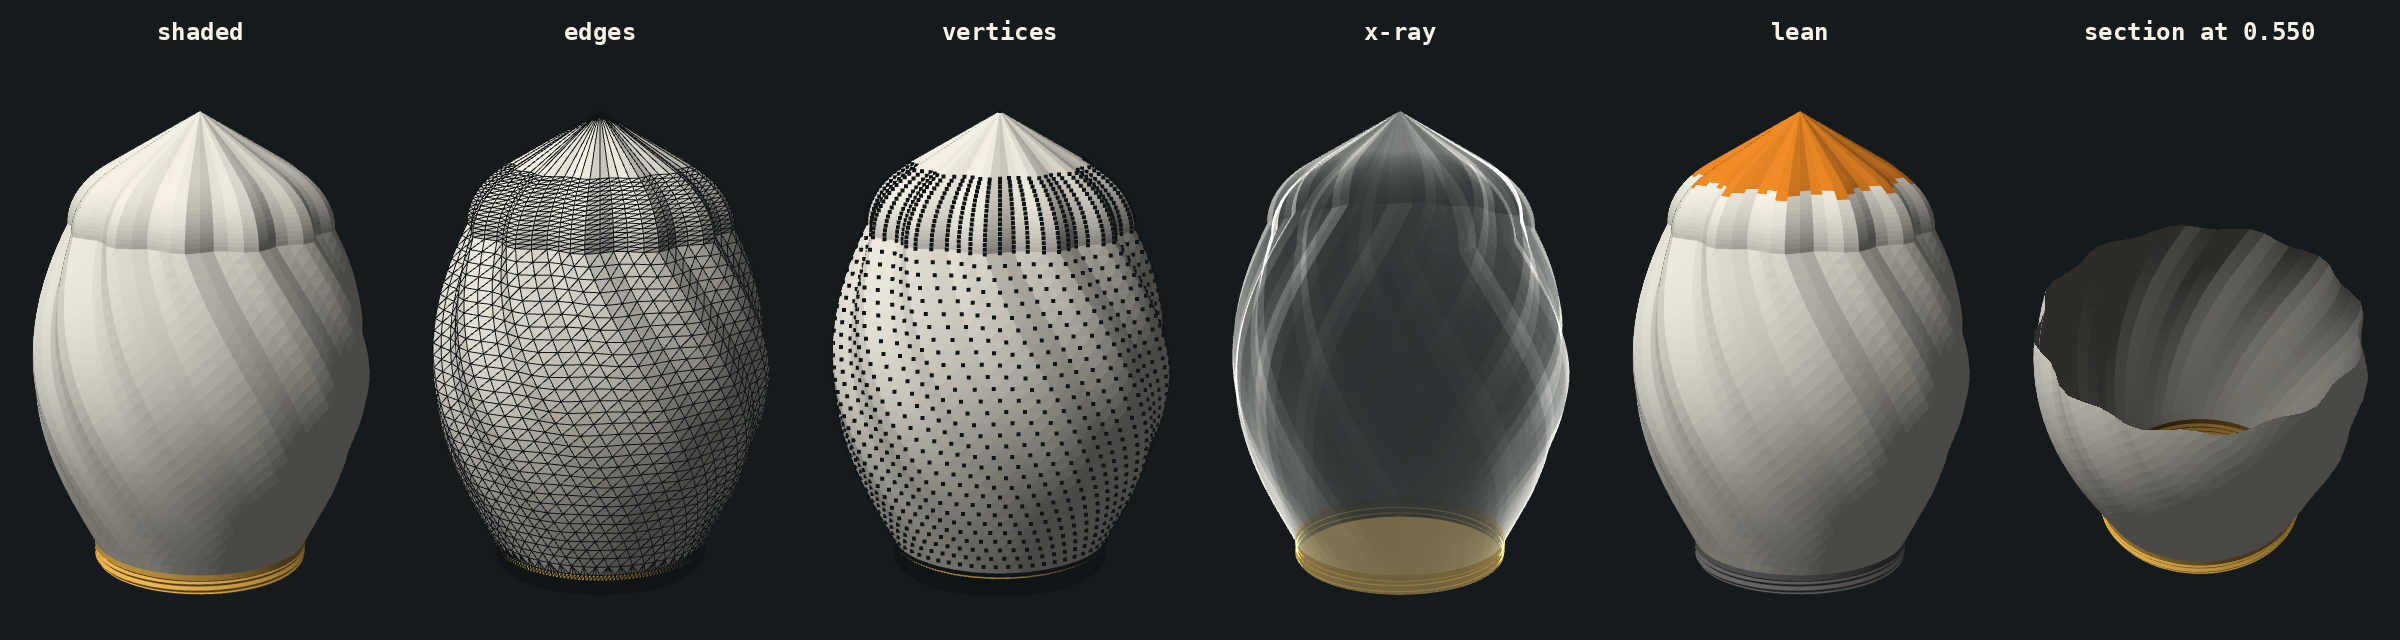
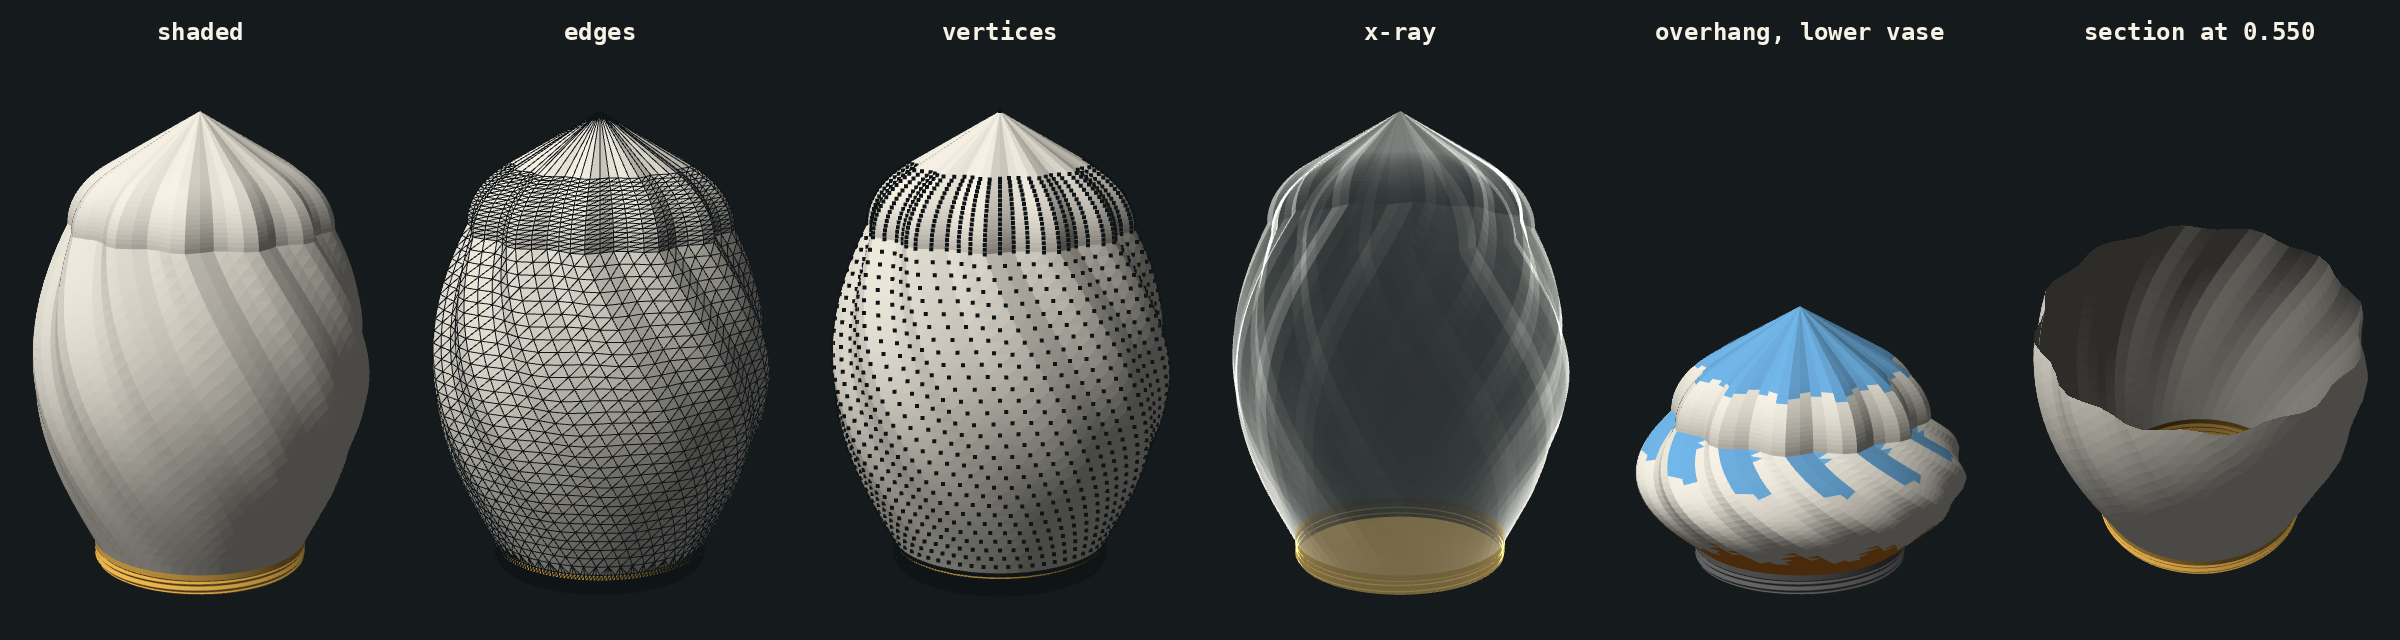
Pucklight vase: view overhang shows where the walls lean too far
- Replaces the view lean, which had one colour scale for both ways: an
  overhang, a wall that leans out and faces down, is orange over 45 degrees and
  red over 60; a wall that leans in is light blue and blue. A legend says so
- The status has the steepest overhang and the steepest wall that leans in,
  each with its height, instead of one steepest wall

Changed region(s): [[0.6562, 0.1875, 0.8438, 0.9062], [0.6875, 0.0312, 0.8125, 0.0625]]

diff --git a/projects/pucklight_vase/app.js b/projects/pucklight_vase/app.js
@@ -14,7 +14,17 @@ const shape_color = [0.97, 0.95, 0.9];
 const mark_color = [0.06, 0.08, 0.09];
 // How the view shows the vase, and what the faces' shader makes of it: 0 lit, 1 seen
 // through, 2 lit and coloured where a wall leans far from vertical.
-const looks = {shaded: 0, edges: 0, vertices: 0, "x-ray": 1, lean: 2};
+const looks = {shaded: 0, edges: 0, vertices: 0, "x-ray": 1, overhang: 2};
+// The overhang view's colours, in the order its shader counts them. A wall that leans
+// out faces down: an overhang. One that leans in closes the vase, and a single wall has
+// as little under it there.
+const overhang_colors = [
+    {text: "overhang, 45 to 60 degrees", color: [0.95, 0.55, 0.15]},
+    {text: "overhang, over 60 degrees", color: [0.88, 0.25, 0.2]},
+    {text: "leans in, 45 to 60 degrees", color: [0.45, 0.72, 0.92]},
+    {text: "leans in, over 60 degrees", color: [0.2, 0.4, 0.85]},
+    {text: "thread: fixed", color: [0.4, 0.4, 0.4]},
+];
 // Waits this long after the last key before running the script, in ms.
 const typing_pause = 400;
 
@@ -56,6 +66,7 @@ flat in float v_fixed;
 uniform int u_look;
 uniform float u_cut;
 uniform vec3 u_thread_color, u_shape_color, u_mark_color;
+uniform vec3 u_overhang_colors[5];
 out vec4 out_color;
 void main() {
     // The section: nothing above its height.
@@ -75,10 +86,13 @@ void main() {
         return;
     }
     if (u_look == 2) {
-        // How far the script's walls lean from vertical: over 45 degrees orange, over 60
-        // red, with half a degree for a wall made to lean just that far.
-        float lean = degrees(asin(min(abs(normalize(cross(dFdx(v_world), dFdy(v_world))).z), 1.0)));
-        color = v_fixed > 0.5 ? vec3(0.4) : lean > 60.5 ? vec3(0.88, 0.25, 0.2) : lean > 45.5 ? vec3(0.95, 0.55, 0.15) : color;
+        // How far the script's walls lean from vertical, and which way. This normal points
+        // at the eye, so on the inside, which a section shows, it is turned round. Half a
+        // degree to spare for a wall made to lean just 45 or 60.
+        vec3 outward = normalize(cross(dFdx(v_world), dFdy(v_world))) * (gl_FrontFacing ? 1.0 : -1.0);
+        float lean = degrees(asin(min(abs(outward.z), 1.0)));
+        int band = (outward.z > 0.0 ? 2 : 0) + (lean > 60.5 ? 1 : 0);
+        color = v_fixed > 0.5 ? u_overhang_colors[4] : lean > 45.5 ? u_overhang_colors[band] : color;
     }
     float light = max(dot(n, normalize(vec3(-0.45, 0.6, 0.65))), 0.0);
     // The inside, which a section shows, is darker.
@@ -200,6 +214,7 @@ function draw() {
     gl.uniform3fv(uniform("u_thread_color"), thread_color);
     gl.uniform3fv(uniform("u_shape_color"), shape_color);
     gl.uniform3fv(uniform("u_mark_color"), mark_color);
+    gl.uniform3fv(uniform("u_overhang_colors"), overhang_colors.flatMap((band) => band.color));
     gl.uniform1f(uniform("u_point_size"), 4 * dpr);
     // At 1 the section leaves everything, also the top itself.
     gl.uniform1f(uniform("u_cut"), cut < 1 ? cut * mesh.height : Infinity);
@@ -257,7 +272,15 @@ $("view").addEventListener("wheel", (e) => {
 new ResizeObserver(request_draw).observe($("right"));
 
 for (const name of Object.keys(looks)) $("look").add(new Option(name));
-$("look").addEventListener("change", request_draw);
+for (const {text, color} of overhang_colors) {
+    const row = $("legend").appendChild(document.createElement("div"));
+    row.appendChild(document.createElement("i")).style.background = `rgb(${color.map((c) => c * 255)})`;
+    row.append(text);
+}
+$("look").addEventListener("change", () => {
+    $("legend").hidden = $("look").value !== "overhang";
+    request_draw();
+});
 $("cut").addEventListener("input", request_draw);
 
 /* ---- Updating ---- */
@@ -275,9 +298,10 @@ function show_status(text, kind = "") {
 
 // What the status says when nothing is going on.
 function show_result() {
-    const {angle, z} = steepest_wall(mesh);
+    const {out, inward} = steepest_walls(mesh);
     show_status(`ready: ${mesh.indices.length / 3} triangles; ${mesh.height.toFixed(1)} mm high, ${mesh.width.toFixed(1)} mm wide; `
-        + `steepest wall ${angle.toFixed(0)} degrees from vertical, at z = ${z.toFixed(0)}`);
+        + `overhang up to ${out.angle.toFixed(0)} degrees, at z = ${out.z.toFixed(0)}; `
+        + `leans in up to ${inward.angle.toFixed(0)}, at z = ${inward.z.toFixed(0)}`);
 }
 
 // The script's line an error came from, if its stack tells: Chrome names the script

diff --git a/projects/pucklight_vase/test_vase_mesh.js b/projects/pucklight_vase/test_vase_mesh.js
@@ -136,12 +136,13 @@ for (const [name, code] of Object.entries(examples)) {
         height = Math.max(height, p[i + 2]);
         width = Math.max(width, 2 * Math.hypot(p[i], p[i + 1]));
     }
-    const {angle, z} = steepest_wall(mesh);
+    const {out, inward} = steepest_walls(mesh);
     const stl = new DataView(mesh_to_stl(mesh));
     assert.equal(stl.getUint32(80, true), mesh.indices.length / 3);
     assert.equal(stl.byteLength, 84 + 50 * mesh.indices.length / 3);
     console.log(`ok  ${name}: closed, ${mesh.indices.length / 3} triangles, ${height.toFixed(1)} high, ${width.toFixed(1)} wide, `
-        + `${(signed_volume(mesh) / 1000).toFixed(0)} cm3, steepest wall ${angle.toFixed(1)} degrees at z = ${z.toFixed(1)}`);
+        + `${(signed_volume(mesh) / 1000).toFixed(0)} cm3, overhang up to ${out.angle.toFixed(1)} degrees at z = ${out.z.toFixed(1)}, `
+        + `leans in up to ${inward.angle.toFixed(1)} at z = ${inward.z.toFixed(1)}`);
 }
 
 /* ---- Any script ---- */
@@ -193,8 +194,9 @@ for (const [height, overhang, rings, steepest] of [[40, 60, 19, 60], [40, 45, 0,
         // Of the dome alone: its faces follow the vase's. The steepest lies between two
         // corners, so it is a little less steep than at a corner.
         assert.equal(mesh.walls[1], mesh.indices.length, `${name}: the dome counts as a wall`);
-        const {angle} = steepest_wall({...mesh, walls: [flat.walls[1], mesh.indices.length]});
+        const {out, inward: {angle}} = steepest_walls({...mesh, walls: [flat.walls[1], mesh.indices.length]});
         assert(angle <= steepest + 0.01 && angle > steepest - 0.2, `${name}: steepest wall ${angle}`);
+        assert.equal(out.angle, 0, `${name}: a dome leans in only`);
         const below = vase_mesh(round({}, turn)).positions;
         assert.deepEqual(mesh.positions.subarray(0, below.length - 3), below.subarray(0, below.length - 3),
             `${name}: the dome moved the vase below it`);
@@ -203,6 +205,17 @@ for (const [height, overhang, rings, steepest] of [[40, 60, 19, 60], [40, 45, 0,
 // Without overhang the default is 60. A flat top does not count as a wall.
 assert.deepEqual(vase_mesh(round({n_height_dome: 40})), vase_mesh(round({n_height_dome: 40, n_overhang_dome: 60})));
 assert.equal(flat.walls[1], flat.indices.length - 90 * 3);
+// The round vase goes out from the thread's ring, at 33.5, to radius 40, 3 higher: an
+// overhang, whichever way its corners run. Above that it is upright. With a dome it
+// leans in as well.
+for (const turn of [1, -1]) {
+    const {out, inward} = steepest_walls(vase_mesh(round({}, turn)));
+    assert(Math.abs(out.angle - Math.atan(6.5 / 3) * deg_per_rad) < 0.1 && out.z > collar_top && out.z < collar_top + 3);
+    assert.equal(inward.angle, 0);
+    const domed = steepest_walls(vase_mesh(round({n_height_dome: 40}, turn)));
+    assert.deepEqual(domed.out, out);
+    assert(domed.inward.angle > 59.8 && domed.inward.z > collar_top + 60);
+}
 // On a shape that is not round, with a last layer that is not flat: closed.
 const star = {n_its_layer: 4, n_its_corner: 10, n_height_dome: 30, f_o_p: (layer, corner, n_layer, n_corner) => ({
     n_x: 7 + (n_corner % 2 ? 20 : 45) * Math.cos(corner * 2 * Math.PI), n_y: (n_corner % 2 ? 20 : 45) * Math.sin(corner * 2 * Math.PI),

diff --git a/projects/pucklight_vase/vase_mesh.js b/projects/pucklight_vase/vase_mesh.js
@@ -182,10 +182,12 @@ function vase_mesh(script) {
     return {positions: positions.subarray(0, (top + 1) * 3), indices, fixed, walls: [walls_start, walls_end]};
 }
 
-// The script's wall that leans most, in or out: its angle from vertical, and its height.
-// A single wall prints up to 45 degrees safely; see readme.md for more.
-function steepest_wall({positions: p, indices: t, walls}) {
-    let steepest = {angle: 0, z: 0};
+// The script's walls that lean most from vertical, with their angle and height: out, the
+// one that leans outwards, so that it faces down, an overhang, and inward, the one that
+// leans in. A single wall has as little under it either way, and prints up to 45 degrees
+// safely; see readme.md for more.
+function steepest_walls({positions: p, indices: t, walls}) {
+    const steepest = {out: {angle: 0, z: 0}, inward: {angle: 0, z: 0}};
     for (let i = walls[0]; i < walls[1]; i += 3) {
         const [a, b, c] = [t[i] * 3, t[i + 1] * 3, t[i + 2] * 3];
         const u = [p[b] - p[a], p[b + 1] - p[a + 1], p[b + 2] - p[a + 2]];
@@ -195,7 +197,8 @@ function steepest_wall({positions: p, indices: t, walls}) {
         // Two points in one place make a face without a direction.
         if (length < 1e-9) continue;
         const angle = Math.asin(Math.abs(normal[2]) / length) * deg_per_rad;
-        if (angle > steepest.angle) steepest = {angle, z: (p[a + 2] + p[b + 2] + p[c + 2]) / 3};
+        const way = normal[2] < 0 ? "out" : "inward";
+        if (angle > steepest[way].angle) steepest[way] = {angle, z: (p[a + 2] + p[b + 2] + p[c + 2]) / 3};
     }
     return steepest;
 }

diff --git a/projects/pucklight_vase/index.html b/projects/pucklight_vase/index.html
@@ -56,6 +56,12 @@
     position: absolute; right: 14px; top: 64px; bottom: 64px; width: 64px;
     display: flex; flex-direction: column; align-items: center; gap: 4px; color: var(--dim);
   }
+  #legend {
+    position: absolute; right: 92px; bottom: 14px; padding: 8px 14px;
+    background: var(--panel); border: 1px solid var(--line); border-radius: 14px; pointer-events: none;
+  }
+  #legend[hidden] { display: none; }
+  #legend i { display: inline-block; width: 11px; height: 11px; margin-right: 8px; border-radius: 2px; }
   #cut_value { color: var(--ink); white-space: pre; text-align: center; margin-bottom: 6px; }
   /* upright, 1.0 at the top */
   #cut { flex: 1; min-height: 0; width: 20px; margin: 0; writing-mode: vertical-lr; direction: rtl; accent-color: var(--accent); }
@@ -84,8 +90,9 @@
   <div id="download"><span>Download</span><button id="download_stl">.stl</button></div>
   <div id="look_row">
     <label for="look">view</label>
-    <select id="look" title="edges and vertices show the mesh; x-ray shows through it; lean marks the script's walls that lean over 45 degrees from vertical orange, over 60 red"></select>
+    <select id="look" title="edges and vertices show the mesh; x-ray shows through it; overhang colours the script's walls that lean over 45 degrees from vertical"></select>
   </div>
+  <div id="legend" hidden></div>
   <div id="section" title="Section: hides what is above this height, from 0.0, the bed, to 1.0, the top">
     <output id="cut_value" for="cut"></output>
     <span>1.0</span>

diff --git a/projects/pucklight_vase/readme.md b/projects/pucklight_vase/readme.md
@@ -91,7 +91,7 @@ Gold in the view. `f_o_p()` is not called for it.
 
 ## View
 
-![the views, on a template with fewer layers and corners](views.png)
+![the views, on a template with fewer layers and corners; lower for the overhang](views.png)
 
 | Control | Does |
 |---|---|
@@ -100,26 +100,28 @@ Gold in the view. `f_o_p()` is not called for it.
 | view: `edges` | the triangles' edges on it |
 | view: `vertices` | the points on it |
 | view: `x-ray` | shows through: outlines, also of the back and the inside |
-| view: `lean` | the script's walls that lean over 45° from vertical in orange, over 60° in red; what is fixed in grey |
+| view: `overhang` | the script's walls that lean over 45° from vertical, with a legend: an overhang, which leans out and faces down, in orange, over 60° in red; a wall that leans in, in light blue, over 60° in blue; what is fixed in grey |
 | slider | section: hides what is above its height, from 0.0, the bed, to 1.0, the top; above it the number, and z in mm |
 
 - The section works in every view. The inside is darker.
-- `lean` has half a degree to spare, so a dome made for 60° stays orange. A flat top is red: vase mode leaves it open.
+- `overhang`: a single wall has as little under it leaning in as leaning out, so both show. Overhangs show from below, walls that lean in from above, both on the inside through a section.
+- `overhang` has half a degree to spare, so a dome made for 60° stays light blue. A flat top is blue: vase mode leaves it open.
+- The status has both in numbers: the steepest overhang and the steepest wall that leans in, with their heights.
 - A fine mesh is black with edges or vertices from afar: zoom in.
 
 ## Examples
 
 `template` explains the script. `egg` is a preset to put a pattern on. The others are stlsculpter's, with their formulas and names: the radius starts on the thread's 33.5 instead of `n_radius_base`, or on a cone, and z on `o_thread.n_z`.
 
-| Example | stlsculpter's | Layers × corners | Triangles | High × wide | Steepest wall |
-|---|---|---|---|---|---|
-| `template` | `template.js`, changed, with a dome | 120 × 180 | 66960 | 141.6 × 105.2 | 60° at z = 131: its dome |
-| `egg` | none | 160 × 180 | 75600 | 128.3 × 96.0 | 60° at z = 124: its cone |
-| `exponential_twist` | `vase_exponential_twist.js` | 100 × 400 | 98000 | 106.6 × 87.0 | 51° at z = 39 |
-| `wild_bend` | `vase_wild_bend.js` | 120 × 300 | 90000 | 126.6 × 97.5 | 49° at z = 7 |
-| `four_pillars` | `vase_four_pillars.js` | 120 × 500 | 138000 | 132.6 × 98.6 | 52° at z = 73 |
-| `starshape_pow` | `template_starshape_pow_function.js` | 240 × 600 | 306000 | 131.6 × 100.5 | 52° at z = 72 |
-| `low_poly` | `vase_long_low_poly_multi_layer.js` | 5 × 12 | 18120 | 156.6 × 86.2 | 26° at z = 137 |
+| Example | stlsculpter's | Layers × corners | Triangles | High × wide | Overhang up to | Leans in up to |
+|---|---|---|---|---|---|---|
+| `template` | `template.js`, changed, with a dome | 120 × 180 | 66960 | 141.6 × 105.2 | 28° at z = 9 | 60° at z = 131: its dome |
+| `egg` | none | 160 × 180 | 75600 | 128.3 × 96.0 | 43° at z = 7 | 60° at z = 124: its cone |
+| `exponential_twist` | `vase_exponential_twist.js` | 100 × 400 | 98000 | 106.6 × 87.0 | 47° at z = 39 | 51° at z = 39 |
+| `wild_bend` | `vase_wild_bend.js` | 120 × 300 | 90000 | 126.6 × 97.5 | 49° at z = 7 | 49° at z = 81 |
+| `four_pillars` | `vase_four_pillars.js` | 120 × 500 | 138000 | 132.6 × 98.6 | 52° at z = 14 | 52° at z = 73 |
+| `starshape_pow` | `template_starshape_pow_function.js` | 240 × 600 | 306000 | 131.6 × 100.5 | 52° at z = 16 | 52° at z = 72 |
+| `low_poly` | `vase_long_low_poly_multi_layer.js` | 5 × 12 | 18120 | 156.6 × 86.2 | 24° at z = 57 | 26° at z = 137 |
 
 ## Printing
 
@@ -133,7 +135,7 @@ Vase mode, as V3's `vase_sphere`: see `../pucklight_sphere/readme.md`, Vase mode
 | Layer height | 0.2 mm | |
 | Brim | outer, 5 mm | the first layer is one line |
 
-- Steepest wall, in the status: how far a wall of the script leans in or out, from vertical. 45° is safe.
+- The status has how far the script's walls lean from vertical at most, out, as an overhang, and in. 45° is safe. The `overhang` view shows where.
 - A dome and `egg` close at 60°, as V3's `vase_sphere` at its `vase_overhang`; `n_overhang_dome` and `egg`'s `n_overhang` change it.
 - Beyond 45°, from V3's table, overlap per layer of a 0.6 mm line at 0.2 mm layers: 52% at 55°, 42% at 60°, 29% at 65°, 8% at 70°.
 - Screw it in gently: the thread is a single line.
@@ -166,6 +168,8 @@ Vase mode, as V3's `vase_sphere`: see `../pucklight_sphere/readme.md`, Vase mode
 | API with `../..`, `a/b`, `.git`, no script, another site's `Origin` and `Host` | refused, nothing touched |
 | Opened as a file | project controls off, the rest works |
 | Views in headless Chrome: each view, the section in each, the slider by mouse and by value | drawn as above; the slider's top is 1.0 |
+| `overhang` on a `wild_bend` half as high, from above, from below and through a section | overhangs orange and red from below and on the inside, walls that lean in blue from above, the legend only in this view |
+| `test_vase_mesh.js`: a wall that goes out 6.5 in 3 mm, with and without a dome | an overhang of 65°, both ways around; the dome leans in only |
 | A mistake's line | found in Chrome 154 and Firefox 157 |
 
 ## Not tested yet
